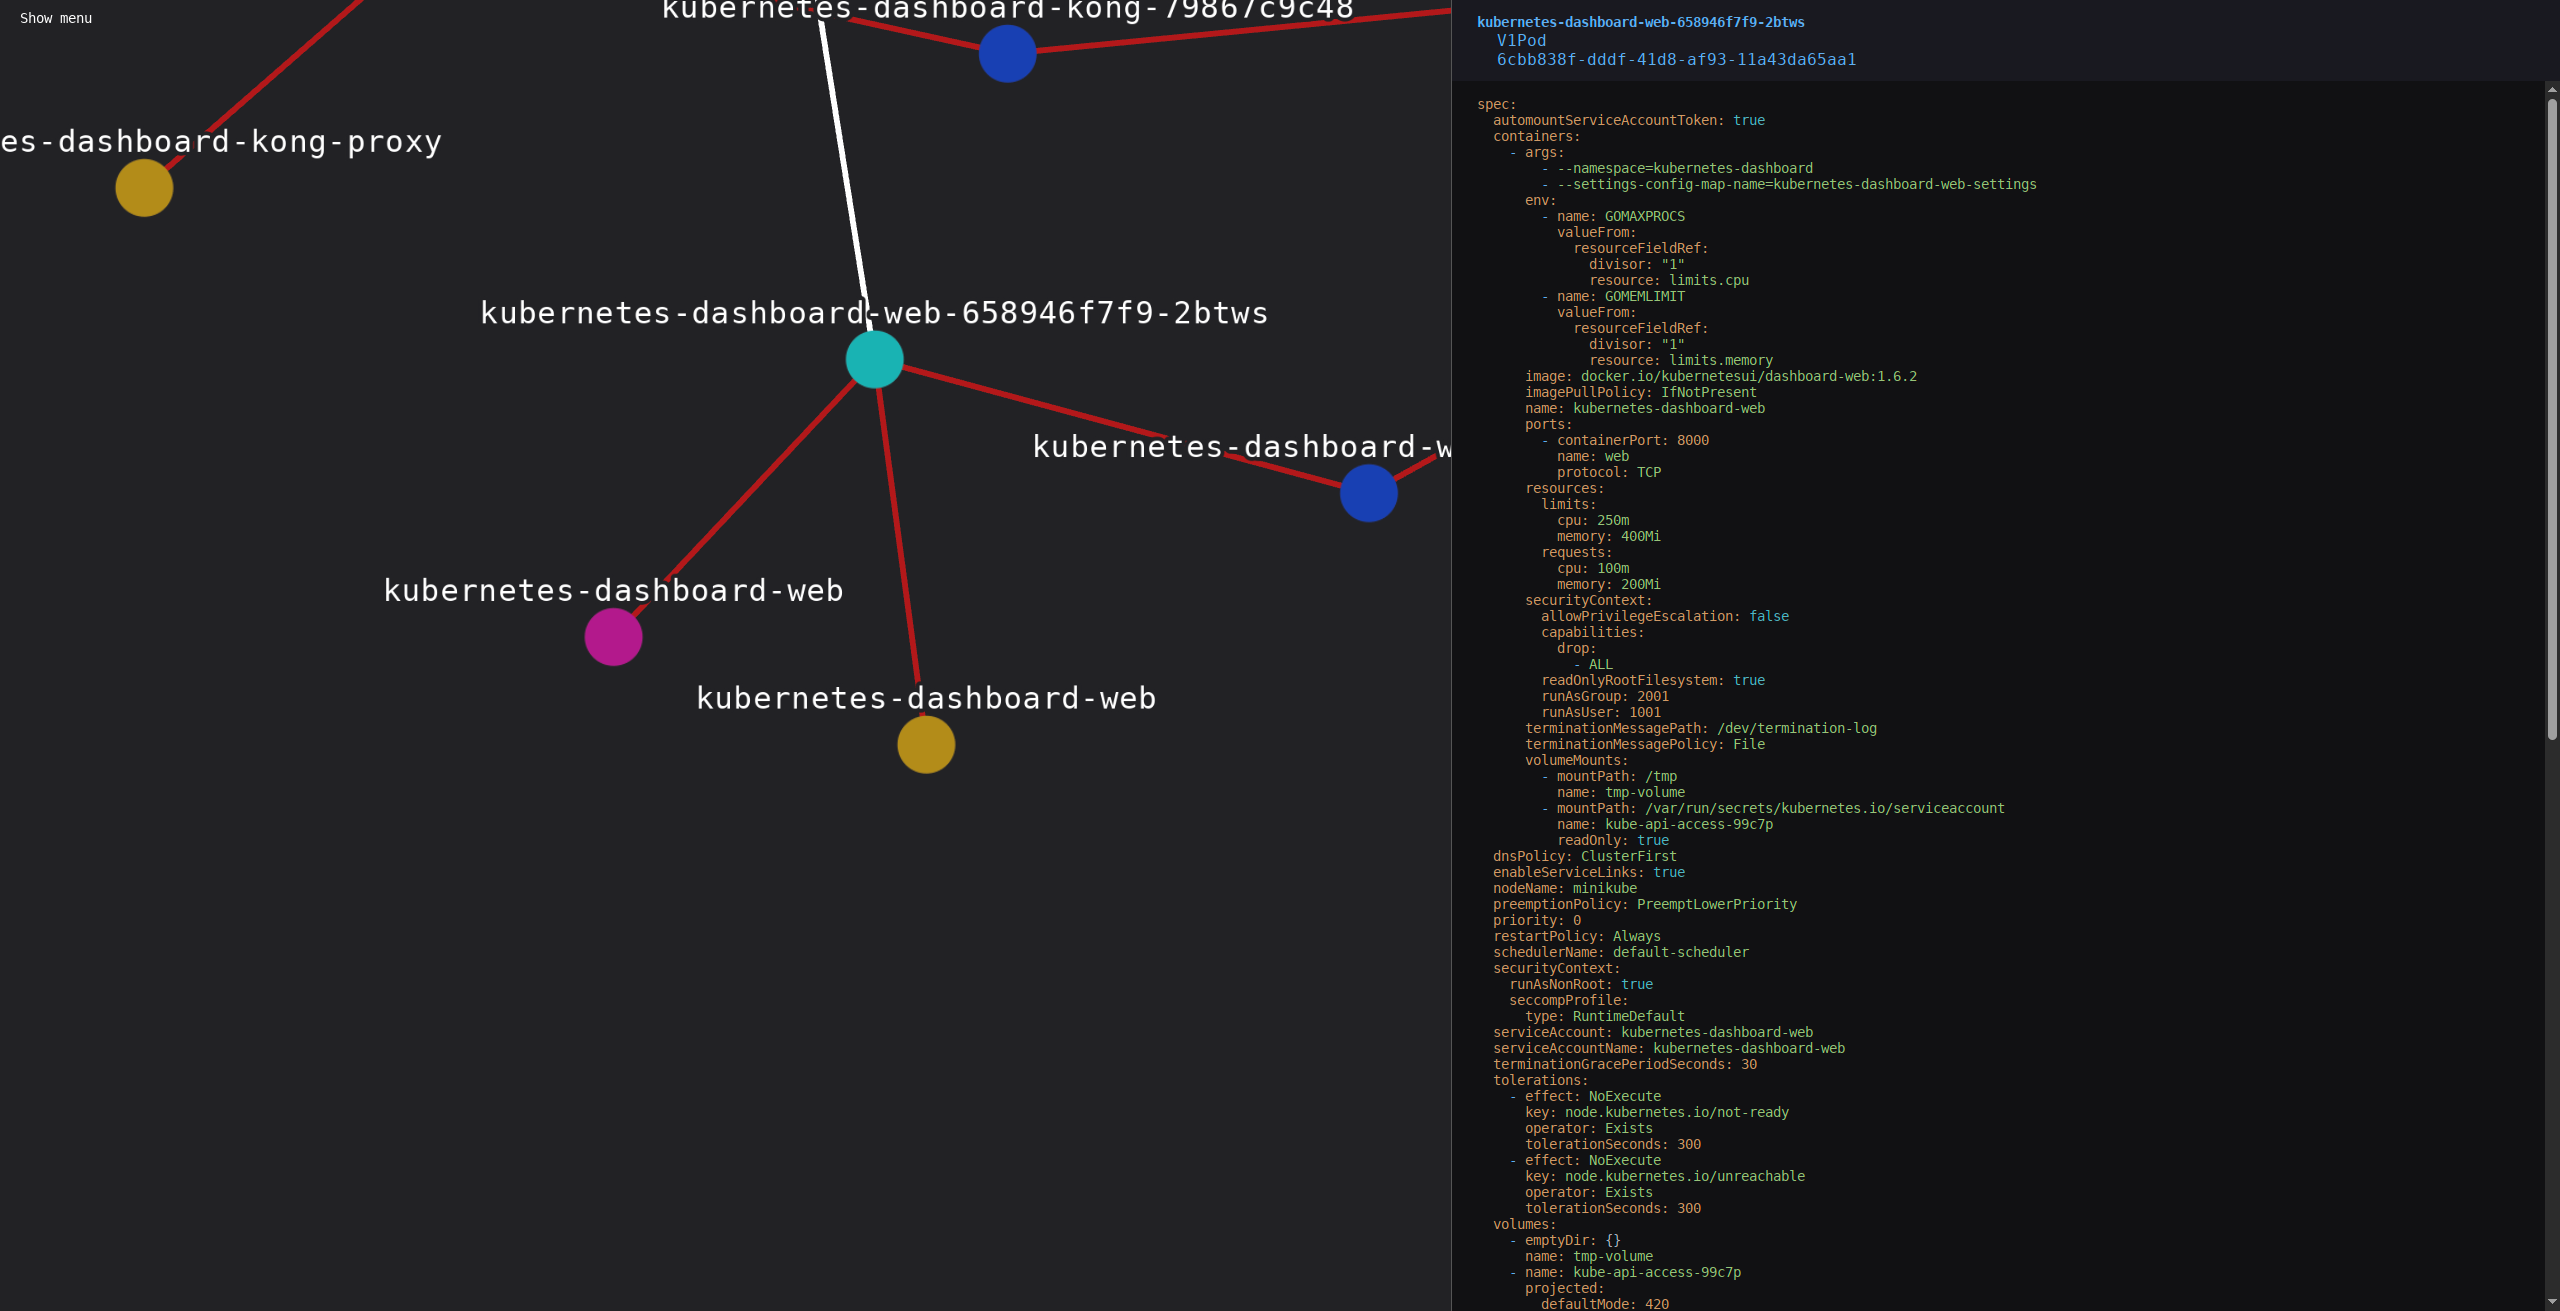
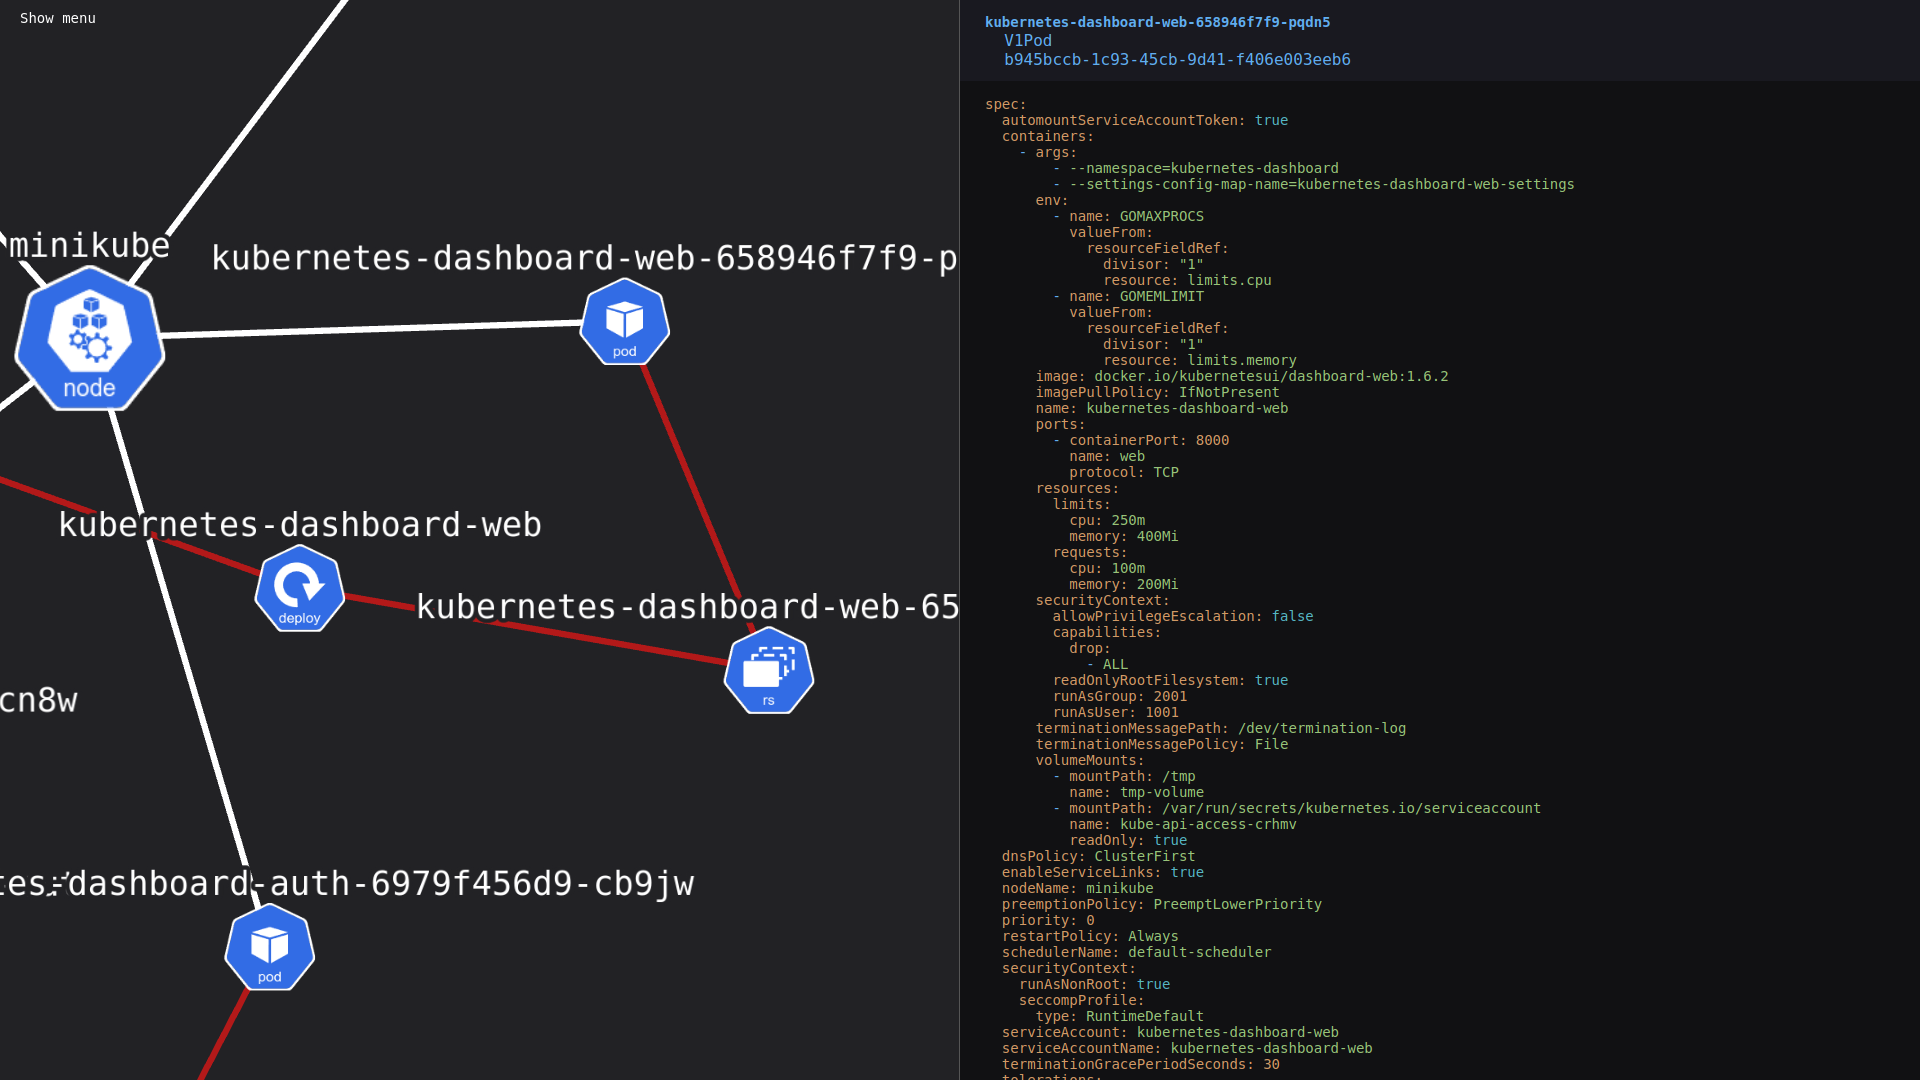
Update demo images

diff --git a/README.md b/README.md
@@ -8,6 +8,9 @@ WebGL accelerated kubernetes cluster visualization, powered by [`cytoscape`](htt
 ![Example screenshot with menu open](./assets/menu.png)
 ![Example screenshot with description open](./assets/description.png)
 
+(Graph without Icons)
+![Example screenshot without icons](./assets/without-icons.png)
+
 
 ## Colors & links
 
